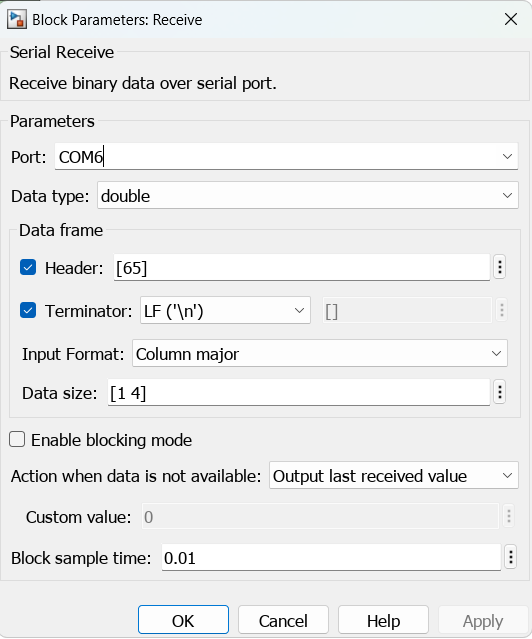
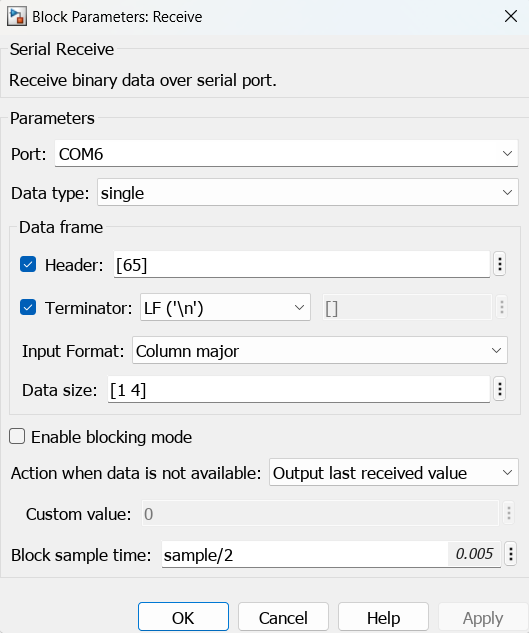
atualizei imagem

diff --git a/README.md b/README.md
@@ -3,6 +3,8 @@
 
 ATENÇÃO: Ao utilizar arduino, double e float possuem 4 bytes, utilize o formato single para converter double de 8 bytes para 4.
 
+Dicas: Utilizar single, diminui achance de perder bytes na comunicação e aumenta a velocidade maxima possivel de amostragem.
+
 ## Configurando a ESP (código disponível na pasta "Example")
 
 ```cpp
@@ -110,7 +112,7 @@ simSerial.send_package();
 
 1. Configure os blocos "*Serial Configuration*", "*Serial Send*" e "*Serial Receive*" com as configurações definidas no código.
 2. Use "*Vector Concatenate*" para concatenar todos os dados que deseja enviar.
-3. "*Zero-Order Hold*" interpola os dados recebido com a taxa de amostragem que deseja (usei 20 millis no exemplo).
+3. "*Zero-Order Hold*" interpola os dados recebido com a taxa de amostragem que deseja (usei 10 millis no exemplo).
 4. Converta seu vector de dados para o tipo definido no código (double no meu caso).
 5. Envie os dados utilizando "*Serial Send*".
 6. Leia os bytes recebidos utilizando "*Serial Receive*".
@@ -123,10 +125,16 @@ simSerial.send_package();
 
 - Defina a porta serial da sua esp32 conectada
 
+### crie uma variavel para salvar a taxa de amostragem definida
+![Sample](imagens/sample.png)
+
+![alt text](image.png)
+
 ### *Serial Send*
 ![Config](imagens/com_send.png)
 
 - O *Header* 'A' definido no codigo é 65 em ASCII e o *Footer* '\n' é a quebra de linha.
+- Defina o tempo de *block* como a metade do tempo de amostragem.
 
 ### *Serial Receive*
 ![Config](imagens/com_receive.png)
